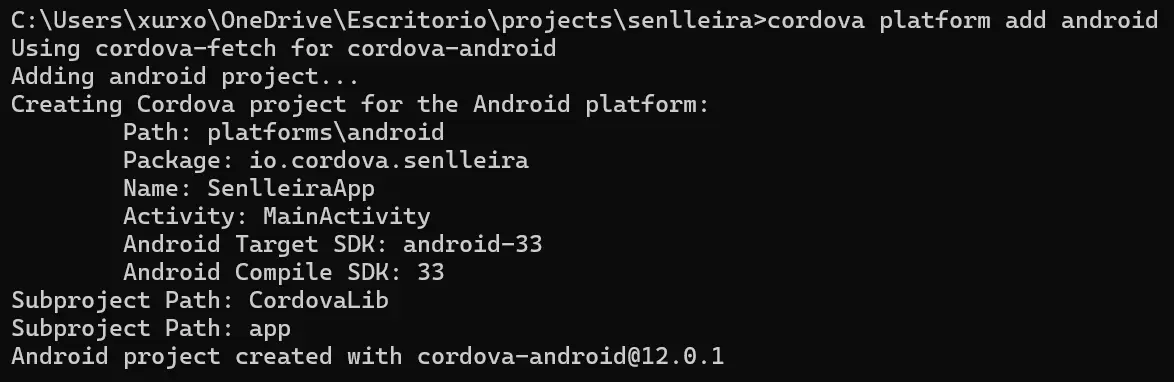
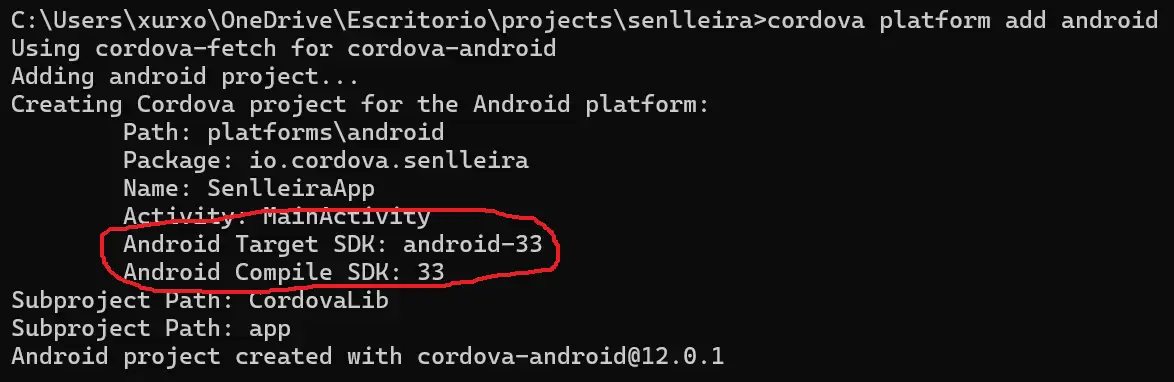
updated README.md latest revision about cordova instalation

Changed region(s): [[0.092, 0.5183, 0.4906, 0.7775], [0.0613, 0.6047, 0.092, 0.6911], [0.092, 0.6911, 0.1227, 0.7487]]

diff --git a/README.md b/README.md
@@ -33,38 +33,69 @@ cd senlleira
 cordova platform add android
 ```
 
-Resultado
+Podemos ver el resultado del anterior comando en la imagen inferior. Resaltado en rojo el nivel de la API de **Android**. Importante para la instalación del **SDK** en **Android Studio** en el futuro.
 
 <img src="./assets/cordova-platform-add.webp" with="600" alt="Android Target SDK: android-33;   Android Compile SDK: 33">
 
-También podemos ver si reunimos los prerequisitos. con el comando <code>cordova requirements</code>
+En la tabla inferior fue obtenida de [Android Platform Guide](https://cordova.apache.org/docs/en/12.x/guide/platforms/android/index.html)
+
+| cordova-android version | Android API-Levels (Android Version) | Library & Tooling Version |
+| ----------------------- | ------------------------------------ | ------------------------- |
+| 12.0.x                  | 24 (7.0) - 33 (13.0)                 | Build Tools: ^33.0.2<br>Kotlin: 1.7.21<br>Gradle: 7.6<br>Android Gradle Plugin: 7.4.2<br>AndroidX Compat Library: 1.6.1<br>AndroidX WebKit Library: 1.6.0<br>AndroidX Core SplashScreen: 1.0.0<br>Google Services Gradle Plugin: 4.3.15      |
+
+### Requisitos tras añadir la plataforma
+
+Dependiendo de lo que tengamos instalado en nuestro equipo puede ser necesario realizar ciertas configuraciones (e.g configurar variables de entorno) o instalaciones. Esta información la podemos ver con el siguiente comando:
+
+```sh
+cordova requirements
+```
+
+Si hay errores suelen mostrarse como vemos en la imagen que viene a continuación:
 
 <img src="./assets/cordova-ls-requirements-cmd.webp" with="600" alt="Resultado al comprobar los requirimientos con la plataforma android">
 
-### Posibles errores de _cordova requirements_
+### Configuraciones adicionales
 
 #### JDK
 
-- [Instalar JDK](https://www.oracle.com/java/technologies/downloads/)
+[Documentación de Cordova sobre JDK](https://cordova.apache.org/docs/en/12.x/guide/platforms/android/index.html#java-development-kit-jdk)
+
+>**Java Development Kit (JDK)** <br>If you are using cordova-android 10.0.0 or greater, install the [Java Development Kit (JDK) 11](https://www.oracle.com/java/technologies/downloads/#java11).
+>If you are using any version below cordova-android 10.0.0, install the Java Development Kit (JDK) 8.<br>The JAVA_HOME environment variable must be set according to your JDK installation path. See the Setting Environment Variables section on how to set up environment variables. Alternatively as of cordova-android 10.0.0 or greater, CORDOVA_JAVA_HOME can be set in place of JAVA_HOME, allowing a JDK install to be used specifically for Cordova development.
 
 #### Gradle
 
-En la capturar de abajo entre otras cosas vemos los errores de la falta de **Gradle**.
+[Documentación de Cordova sobre Gradle](https://cordova.apache.org/docs/en/12.x/guide/platforms/android/index.html#gradle)
+
+>As of Cordova-Android 6.4.0, [Gradle](https://gradle.org/install/) is required to be installed.<br>When installing on Windows, you need to add the path to the Gradle's binary directory to your path environment variable. See [Setting Environment Variables](https://cordova.apache.org/docs/en/12.x/guide/platforms/android/index.html#setting-environment-variables)) on how to configure system environment variables.
+
+En la captura de abajo entre otras cosas vemos los errores de la falta de **Gradle**.
 
 <img src="./assets/gradle-not-installed.webp" with="600" alt="Errores, entre ellos el de gradle">
 
-- [Instalar Gradle](https://gradle.org/install/)
+#### Android Studio
 
-#### JAVA_HOME
+[Documentación de Cordova sobre Android Studio](https://cordova.apache.org/docs/en/12.x/guide/platforms/android/index.html#android-studio)
 
-Para esta variable de entorno en principio sigue el siguiente [tutorial](https://www.aprenderaprogramar.com/index.php?option=com_content&view=article&id=389:configurar-java-en-windows-variables-de-entorno-javahome-y-path-cu00610b&catid=68&Itemid=188)
+>Download and install [Android Studio](https://developer.android.com/studio?hl=es-419). Follow the instructions at the linked Android Developer site to get started.
 
+### Variables de entorno
 
+[Documentación de Cordova sobre las variables de entorno](https://cordova.apache.org/docs/en/12.x/guide/platforms/android/index.html#setting-environment-variables)
 
-### Producción en browser
+#### JAVA_HOME y ANDROID_HOME
 
-1. Crear los estáticos para producción
+A modo de ejemplo:
 
-```sh
-npm run build
-```
+<img src="./assets/enviroment-variables.webp" with="600" alt="Rutas de ANDROID_HOME Y JAVA_HOME">
+
+#### Path
+
+A modo de ejemplo
+
+<img src="./assets/path.webp" with="600" alt="Rutas de la variable Path">
+
+Recuerda instalar todos los **Sdk tools** para poder ponerlas en tu variable de entorno path
+
+<img src="./assets/sdk-manager.webp" with="600" alt="SDK manager">
